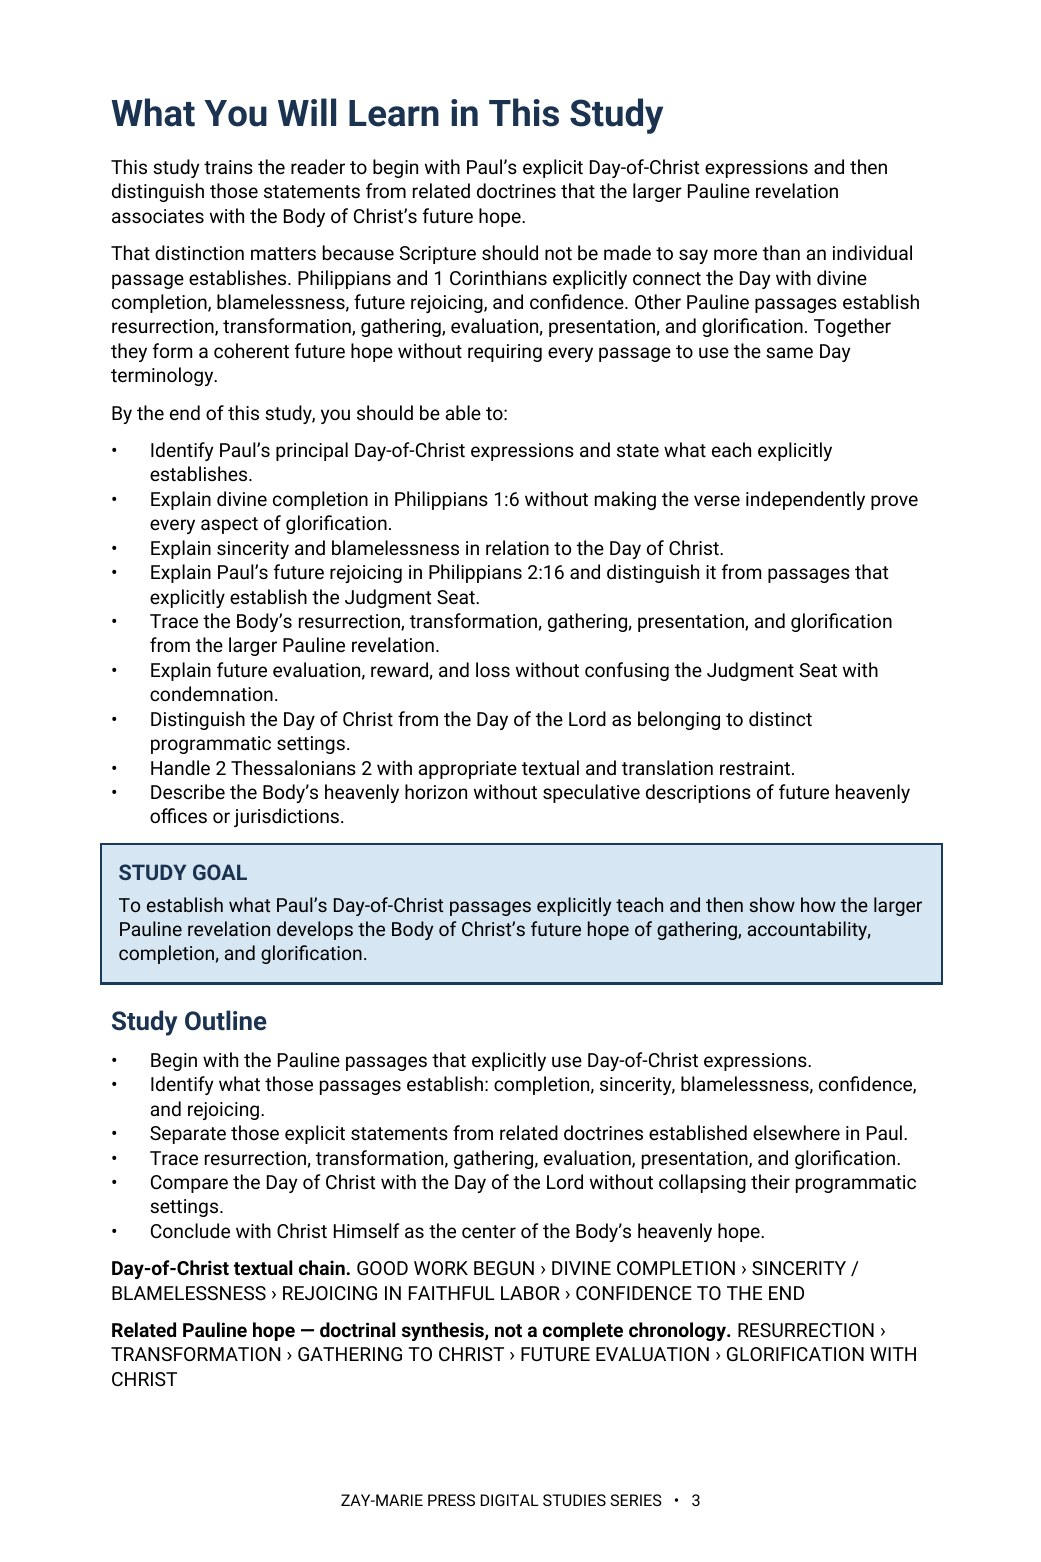
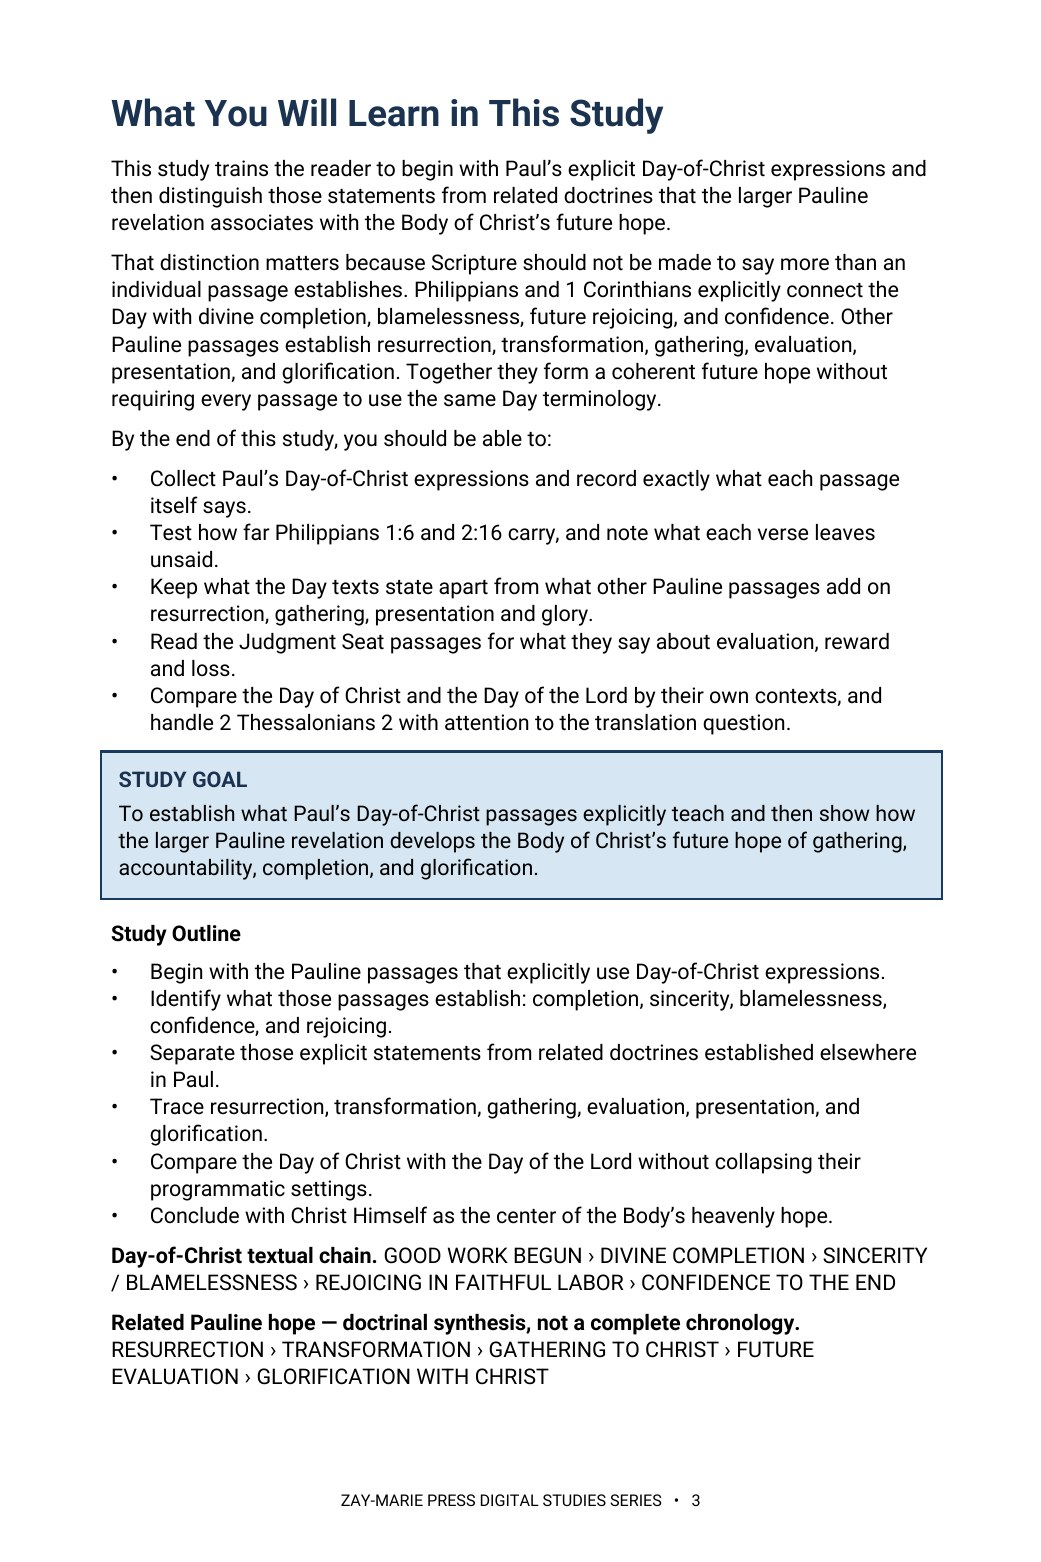
Study 8: rebuild at 15 pages with v1.51 imprint, process-bullet What You Will Learn, numbered Teaching Outline
Claude-Session: https://claude.ai/code/session_01HC7bs9KYP2scp4hCL6DkTp

Changed region(s): [[0.0922, 0.0922, 0.9222, 0.8912]]

diff --git a/study-08-the-day-of-christ.html b/study-08-the-day-of-christ.html
@@ -15,8 +15,8 @@
 <section class="detail-section cream"><div class="wrap"><div class="eyebrow">KEY SCRIPTURES</div><h2>Examine the Passages for Yourself</h2><div class="scripture-grid"><div class="scripture-card"><h3>Philippians 1:6</h3><p>Assures that the good work God began will be completed in the Day of Jesus Christ.</p></div><div class="scripture-card"><h3>Philippians 1:10</h3><p>Connects sincerity and blamelessness with the Day of Christ.</p></div><div class="scripture-card"><h3>Philippians 2:16</h3><p>Places faithful labor and rejoicing in the light of the Day of Christ.</p></div><div class="scripture-card"><h3>1 Corinthians 1:8</h3><p>Speaks of confirmation unto the end in the Day of our Lord Jesus Christ.</p></div><div class="scripture-card"><h3>1 Thessalonians 4:13–18</h3><p>Establishes the Body’s gathering to Christ and its abiding relationship with Him.</p></div><div class="scripture-card"><h3>1 Corinthians 15:51–52</h3><p>Declares the resurrection and transformation of the Body.</p></div><div class="scripture-card"><h3>2 Corinthians 5:10</h3><p>Sets the Judgment Seat before believers as an evaluation of what has been done.</p></div><div class="scripture-card"><h3>Colossians 3:4; Ephesians 5:27</h3><p>Looks ahead to the Body’s appearance with Christ in glory and presentation to Him.</p></div></div></div></section>
 <section class="detail-section"><div class="wrap"><div class="eyebrow">FROM THE STUDY</div><h2>The Body’s Heavenly Hope in Christ</h2><div class="excerpt"><blockquote>“The Day of Christ belongs to the Body’s heavenly hope: completion, gathering, accountability, reward, and glorification in Christ.”</blockquote><p>The Day of Christ is defined by Paul’s language and future-facing promises for the Body. It is therefore not interchangeable with Israel’s prophetic Day of the Lord, even where related passages must be handled with care.</p></div></div></section>
 <section class="detail-section soft"><div class="wrap"><div class="eyebrow">A LOOK INSIDE</div><h2>Preview the Study Before You Purchase</h2><p class="preview-instruction">Click any page to enlarge it for reading.</p><div class="preview-grid"><div class="preview-card"><a class="preview-image-link" data-preview-lightbox href="assets/study-08-page-2.jpg"><img src="assets/study-08-page-2.jpg" alt="Study 8 interior preview — page 2, table of contents"/></a><div class="page-no">Page 2</div><h3>Table of Contents</h3><p>See the full structure of the study, from the introduction through the final synthesis.</p></div><div class="preview-card"><a class="preview-image-link" data-preview-lightbox href="assets/study-08-page-3.jpg"><img src="assets/study-08-page-3.jpg" alt="Study 8 interior preview — page 3, what you will learn"/></a><div class="page-no">Page 3</div><h3>What You Will Learn</h3><p>See the study’s goals for reading Paul’s Day-of-Christ passages and the outline that carries the study forward.</p></div><div class="preview-card"><a class="preview-image-link" data-preview-lightbox href="assets/study-08-page-5.jpg"><img src="assets/study-08-page-5.jpg" alt="Study 8 interior preview — page 5, divine completion and sincerity"/></a><div class="page-no">Page 5</div><h3>Completion and Sincerity</h3><p>Read what Philippians 1:6 and 1:10 explicitly establish before any related doctrine is added.</p></div></div></div></section>
-<section class="detail-section"><div class="wrap"><div class="eyebrow">WHAT’S INCLUDED</div><h2>A Focused Study Built for<br/>Understanding and Teaching</h2><div class="includes-grid"><div class="include-item"><h3>13-Page In-Depth Biblical Study</h3><p>A careful study of the Body’s future hope in the Day of Christ.</p></div><div class="include-item"><h3>15 Core Teaching Sections</h3><p>Progress through the Day texts, gathering, transformation, evaluation, and glorification.</p></div><div class="include-item"><h3>Day-of-Christ Passage Study</h3><p>Examine Paul’s own expressions before bringing related passages alongside them.</p></div><div class="include-item"><h3>Gathering and Transformation Trace</h3><p>Work through the passages that establish the Body’s gathering and future change.</p></div><div class="include-item"><h3>20 Review Questions</h3><p>Test the study’s distinctions concerning the Day, judgment, reward, and hope.</p></div><div class="include-item"><h3>Teaching Outline</h3><p>A ready outline for teaching the Body’s heavenly hope with precision.</p></div><div class="include-item"><h3>Guided Further Study</h3><p>Return directly to the passages on completion, gathering, evaluation, and glory.</p></div><div class="include-item"><h3>Final Synthesis Exercise</h3><p>Bring the Day-of-Christ evidence together in a concise, Scripture-based explanation.</p></div></div></div></section>
-<section class="detail-section cream"><div class="wrap"><div class="final-buy"><div><div class="eyebrow">STUDY 8 · DIGITAL STUDY</div><h2>The Day of Christ</h2><p>13-page digital PDF · For personal use</p></div><div class="final-offer"><div class="detail-price">$5.99</div><span class="detail-button pending" aria-disabled="true">Get the Study</span></div></div><a class="back-link" href="digital-studies.html">← Back to All Digital Studies</a></div></section><section class="study-method-course-bridge"><div class="wrap"><div class="study-method-course-panel"><div><div class="eyebrow">BUILD THE INTERPRETIVE METHOD</div><h2>Want More Than a Focused Study?</h2><p>Digital Studies examine particular biblical subjects and difficult passages. The 40-lesson Biblical Hermeneutics course teaches a complete, repeatable method for establishing meaning in context, determining proper assignment, and making responsible application.</p></div><a class="btn btn-primary" href="biblical-hermeneutics-course.html">BIBLICAL HERMENEUTICS COURSE</a></div></div></section></main>
+<section class="detail-section"><div class="wrap"><div class="eyebrow">WHAT’S INCLUDED</div><h2>A Focused Study Built for<br/>Understanding and Teaching</h2><div class="includes-grid"><div class="include-item"><h3>14-Page In-Depth Biblical Study</h3><p>A careful study of the Body’s future hope in the Day of Christ.</p></div><div class="include-item"><h3>15 Core Teaching Sections</h3><p>Progress through the Day texts, gathering, transformation, evaluation, and glorification.</p></div><div class="include-item"><h3>Day-of-Christ Passage Study</h3><p>Examine Paul’s own expressions before bringing related passages alongside them.</p></div><div class="include-item"><h3>Gathering and Transformation Trace</h3><p>Work through the passages that establish the Body’s gathering and future change.</p></div><div class="include-item"><h3>20 Review Questions</h3><p>Test the study’s distinctions concerning the Day, judgment, reward, and hope.</p></div><div class="include-item"><h3>Teaching Outline</h3><p>A ready outline for teaching the Body’s heavenly hope with precision.</p></div><div class="include-item"><h3>Guided Further Study</h3><p>Return directly to the passages on completion, gathering, evaluation, and glory.</p></div><div class="include-item"><h3>Final Synthesis Exercise</h3><p>Bring the Day-of-Christ evidence together in a concise, Scripture-based explanation.</p></div></div></div></section>
+<section class="detail-section cream"><div class="wrap"><div class="final-buy"><div><div class="eyebrow">STUDY 8 · DIGITAL STUDY</div><h2>The Day of Christ</h2><p>14-page digital PDF · For personal use</p></div><div class="final-offer"><div class="detail-price">$5.99</div><span class="detail-button pending" aria-disabled="true">Get the Study</span></div></div><a class="back-link" href="digital-studies.html">← Back to All Digital Studies</a></div></section><section class="study-method-course-bridge"><div class="wrap"><div class="study-method-course-panel"><div><div class="eyebrow">BUILD THE INTERPRETIVE METHOD</div><h2>Want More Than a Focused Study?</h2><p>Digital Studies examine particular biblical subjects and difficult passages. The 40-lesson Biblical Hermeneutics course teaches a complete, repeatable method for establishing meaning in context, determining proper assignment, and making responsible application.</p></div><a class="btn btn-primary" href="biblical-hermeneutics-course.html">BIBLICAL HERMENEUTICS COURSE</a></div></div></section></main>
 <div class="preview-lightbox" id="preview-lightbox" role="dialog" aria-modal="true" aria-label="Enlarged study page preview"><button class="preview-lightbox-close" type="button" aria-label="Close enlarged preview">×</button><img src="" alt=""/><div class="preview-lightbox-hint">Scroll to read the full page · Press Esc or click outside the page to close</div></div>
 <footer class="site-footer"><div class="wrap footer-grid"><div class="footer-about"><h3>Zay-Marie Press</h3><p class="footer-tagline"><em>Where the Bible Means What It Says.</em></p><p>Zay-Marie Press is a Christian theological publisher dedicated to producing doctrinally precise, carefully structured biblical resources that equip pastors, teachers, and serious students with clarity, depth, and Scripture-anchored truth.</p><p><a href="https://zaymariepress.com">zaymariepress.com</a><br/><a href="mailto:info@zaymariepress.com">info@zaymariepress.com</a></p></div><div class="footer-column"><h3>Explore</h3><div class="footer-links-stacked"><a href="books.html">Books</a><br/><a href="series.html">Series</a><br/><a href="biblical-hermeneutics-course.html">Course</a><br/><a href="digital-studies.html">Digital Studies</a><br/><a href="resources.html">Resources</a><br/><a href="bible-book-summaries.html">Bible Book Summaries</a><br/><a href="doctrinal-packets.html">Doctrinal Packets</a><br/><a href="historical-drift.html">Historical Drift</a><br/><a href="about.html">About</a><br/><a href="contact.html">Contact</a></div></div><div class="footer-column"><h3>Reader Support</h3><div class="footer-links-stacked"><a href="reader-support.html#faq">FAQ</a><br/><a href="reader-support.html#shipping-returns">Shipping &amp; Returns</a><br/><a href="reader-support.html#digital-downloads">Digital Downloads</a><br/><a href="reader-support.html#contact-support">Contact Support</a></div></div><div class="footer-column"><h3>Acts Overlap</h3><p><strong>Acts Overlap Theology Series</strong></p><p><em>Two Distinct Streams. One Overlap.</em></p><p><a href="series.html">Series Overview</a></p></div></div><div class="wrap footer-bottom">© 2026 Zay-Marie Press. All rights reserved.</div></footer>
 <script src="site.js"></script><script>(function(){var box=document.getElementById("preview-lightbox"),img=box.querySelector("img"),close=box.querySelector(".preview-lightbox-close"),hint=box.querySelector(".preview-lightbox-hint"),hintTimer;function shut(){clearTimeout(hintTimer);box.classList.remove("open");hint.classList.remove("fade");document.body.style.overflow="";img.src=""}document.querySelectorAll("[data-preview-lightbox]").forEach(function(a){a.addEventListener("click",function(e){e.preventDefault();clearTimeout(hintTimer);img.src=a.getAttribute("href");img.alt=a.querySelector("img").alt;hint.classList.remove("fade");box.classList.add("open");document.body.style.overflow="hidden";box.scrollTop=0;hintTimer=setTimeout(function(){hint.classList.add("fade")},3000)})});close.addEventListener("click",shut);box.addEventListener("click",function(e){if(e.target===box)shut()});document.addEventListener("keydown",function(e){if(e.key==="Escape"&&box.classList.contains("open"))shut()})})();</script></body></html>

diff --git a/site.js b/site.js
@@ -62,7 +62,7 @@ const resourceModal=document.querySelector('#resource-modal'), resourceModalTitl
 if(resourceModal&&resourceModalTriggers.length){const closeResourceModal=()=>{resourceModal.hidden=true;document.body.classList.remove('resource-modal-open');lastResourceTrigger?.focus();};resourceModalTriggers.forEach(trigger=>trigger.addEventListener('click',()=>{lastResourceTrigger=trigger;if(resourceModalTitle)resourceModalTitle.textContent=trigger.dataset.title||'Resource';if(resourceModalDescription)resourceModalDescription.textContent=trigger.dataset.description||'';if(resourceModalLink){resourceModalLink.href=trigger.dataset.href||'#';resourceModalLink.textContent=trigger.dataset.linkText||'OPEN RESOURCE';}resourceModal.hidden=false;document.body.classList.add('resource-modal-open');resourceModalClose?.focus();}));resourceModalClose?.addEventListener('click',closeResourceModal);resourceModal.addEventListener('click',e=>{if(e.target===resourceModal)closeResourceModal();});document.addEventListener('keydown',e=>{if(e.key==='Escape'&&!resourceModal.hidden)closeResourceModal();});}
 
 /* Display the verified final-PDF page count at the primary purchase decision point. */
-const digitalStudyPageCounts={1:20,2:19,3:18,4:17,5:15,6:15,7:15,8:13,9:15,10:20,11:15,12:15,13:18,14:15,15:15,16:16,17:17,18:18,19:18,20:18,21:16,22:15,23:14,24:16,25:17,26:16,27:16,28:17,29:19,30:18,31:19,32:19,33:18,34:20,35:22,36:20,37:21,38:22,39:22,40:23,41:21,42:17,43:16,44:19,45:19,46:20,47:20,48:20,49:20,50:20,51:20,52:19,53:19,54:17,55:20,56:20,57:20,58:19,59:20,60:15,61:14,62:18,63:17,64:17,65:16,66:16,67:17,68:16,69:17,70:17,71:16};
+const digitalStudyPageCounts={1:20,2:19,3:18,4:17,5:15,6:15,7:15,8:15,9:15,10:20,11:15,12:15,13:18,14:15,15:15,16:16,17:17,18:18,19:18,20:18,21:16,22:15,23:14,24:16,25:17,26:16,27:16,28:17,29:19,30:18,31:19,32:19,33:18,34:20,35:22,36:20,37:21,38:22,39:22,40:23,41:21,42:17,43:16,44:19,45:19,46:20,47:20,48:20,49:20,50:20,51:20,52:19,53:19,54:17,55:20,56:20,57:20,58:19,59:20,60:15,61:14,62:18,63:17,64:17,65:16,66:16,67:17,68:16,69:17,70:17,71:16};
 const digitalStudyMatch=window.location.pathname.match(/\/study-(\d+)-/i);
 const digitalStudyFormat=document.querySelector('.detail-hero .detail-format');
 if(digitalStudyMatch&&digitalStudyFormat){const studyNumber=Number(digitalStudyMatch[1]),pageCount=digitalStudyPageCounts[studyNumber];if(pageCount)digitalStudyFormat.textContent=`Digital PDF · ${pageCount} Pages`;}

diff --git a/build-tools/studies/b08/ed08r.py b/build-tools/studies/b08/ed08r.py
@@ -1,0 +1,18 @@
+from edcommon import *
+def apply(els):
+    idx=[i for i in range(0,14) if els[i]['type']=='para' and els[i]['kind']=='bul']
+    assert len(idx)==9 and idx==list(range(idx[0],idx[0]+9)) and els[idx[-1]+1]['kind']=='ctitle'
+    new=['Collect Paul’s Day-of-Christ expressions and record exactly what each passage itself says.',
+    'Test how far Philippians 1:6 and 2:16 carry, and note what each verse leaves unsaid.',
+    'Keep what the Day texts state apart from what other Pauline passages add on resurrection, gathering, presentation and glory.',
+    'Read the Judgment Seat passages for what they say about evaluation, reward and loss.',
+    'Compare the Day of Christ and the Day of the Lord by their own contexts, and handle 2 Thessalonians 2 with attention to the translation question.']
+    els[idx[0]:idx[-1]+1]=[mk('bul',[[t,False,False]]) for t in new]
+    n=0
+    for e in els:
+        if P(e) and 'Study #8' in T(e):
+            for s in e['segs']:
+                if 'Study #8' in s[0]: s[0]=s[0].replace('Study #8','this study'); n+=1
+    assert n==1
+    number_outline(els)
+    return els

diff --git a/CLAUDE.md b/CLAUDE.md
@@ -26,7 +26,7 @@ These are kept in the repo at `controlling-documents/` and are the current versi
 - **`build-tools/`** — the study rebuild toolkit (scripts, per-study edit files, README), committed 2026-10-04 at the publisher's approval so the retrofit method and every per-study wording edit survive a session reset. Working tools only; the site does not use them. Not a rule.
 **`controlling-documents/Digital_Studies_Relationship_Map_v1.39.md`** — records each study's distinct subject, its related studies, the eight priced six-study collections, the Paul's Missionary Journeys cross-reference map, and the five primary catalog categories (currently version 1.39, covers Studies 1–71; update it as new studies publish, bump the version number, rename the file to match, and log the change in its own version-history table — mirroring the Master Standard's `_vX.Y` filename convention). Check a proposed topic against it before recommending or writing a new study. (2026-09-28: the file was missing from this repo despite this note referencing it; replaced from the publisher's copy and bumped v1.15→v1.25 in the same pass. If this note ever again points to a version not present under `controlling-documents/`, ask the publisher for a copy rather than proceeding without the check.)
 - **`controlling-documents/Digital_Studies_Category_Standard_v1.1.md`** — FINAL and binding (publisher, 2026-10-01): the rules for the five primary catalog categories (Foundations, Israel & Prophecy, Body of Christ, Passages, Doctrinal Themes), the ordered decision procedure for new studies, the precedents, all 71 fixed assignments, and the cover-label form for each category. Read it before placing any card or cover label. Do not ask the publisher where a study belongs; apply the procedure and state the result. Only the publisher changes a ruling; then bump this Standard's version and filename, re-letter the cover, and update the Relationship Map.
-- **`controlling-documents/Doctrinal_Upgrade_Retrofit_Plan_v1.137.md`** — working tracker for retrofitting Studies 1–59 to the 2026-10-02 doctrinal upgrade (Framework/PAM v1.1, Master Standard v1.40, Rules 7–17): withdrawn-wording search keys, impact tiers, waves and the per-study method. Read it before continuing the retrofit in any session; update status, bump the version and rename the file as work proceeds.
+- **`controlling-documents/Doctrinal_Upgrade_Retrofit_Plan_v1.138.md`** — working tracker for retrofitting Studies 1–59 to the 2026-10-02 doctrinal upgrade (Framework/PAM v1.1, Master Standard v1.40, Rules 7–17): withdrawn-wording search keys, impact tiers, waves and the per-study method. Read it before continuing the retrofit in any session; update status, bump the version and rename the file as work proceeds.
 - **`controlling-documents/Doctrinal_Packet_Standard_v0.3.md`** — Doctrinal Packet Standard (DRAFT; §7 approved). Governs the separate Doctrinal Packets product strand (5-page interpretive PDFs per Bible book — a print-friendly cover as page 1 plus 4 content pages, $2.99, KJV, pilot: Genesis, live at `packet-genesis.html`, hub `doctrinal-packets.html`; site pages say "5 Pages", cover styles live in `packets.css`, Old Testament blue and New Testament soft pale green, hub listed in Bible order). **Preview rule (publisher directive, 2026-09-29, packets only):** previews show about one page's worth in two cropped views (top of page 1 through the anchor texts; the chart section) — never the exegesis, architecture, Mystery contrast, logic chain, outline, or closing. Master Standard §16/§17 still govern Digital Studies. Bump the version and rename the file as the Standard is finalized.
 - **`controlling-documents/Preview_Page_Spoiler_Retrofit_Audit_v1.4.md`** — working tracker for the Studies 1–60 preview-page conclusion-spoiler retrofit (see the section below). Read it before continuing that audit in any session; update its status fields and changelog, bump the version, and rename the file to match as the audit proceeds — same `_vX.Y` convention as the other controlling documents. As of v1.1, the website-side half was DONE: all 60 studies' "What You'll Study" text was judged against the rule (methodology documented in the file) and 22 points across 11 studies were rewritten and pushed; an unrelated Study 22 content bug (Study 21's content had leaked into it) was also found and fixed. As of v1.2, the publisher supplied Studies 1–60's interior production PDFs and the interior-PDF half was also surveyed (read-only): 10 studies (37, 41, 45, 47, 48, 49, 51, 52, 53, 54) were found to have at least one interior "What You Will Learn" violation, 50 studies were confirmed compliant, and the orphaned `assets/study-45-sanctification-under-grace.docx` (removed from the repo per the publisher in v1.0) was confirmed word-for-word identical to Study 45's actual production interior PDF content. As of v1.3, the publisher supplied editable DOCX sources for all 10 violating studies; all 15 violating points were rewritten and approved, delivered as corrected final PDFs, and — along the way — a second defect was found and fixed (Studies 47 and 48's source DOCX still had an unintegrated cover placeholder despite both being long-published live with real covers; fixed by inserting the existing approved cover art). The website's "What You Will Learn" preview image (`study-NN-page-3.jpg`) was regenerated from the corrected content for all 10 studies and pushed to `main` (commit `cea1859`), verified against a fresh clone. **The website side of this audit is now fully compliant for all 60 studies.** Outstanding: the publisher's purchasable interior PDF files themselves have corrected versions delivered, but distribution to existing purchasers was decided by the publisher on 2026-09-29: silent swap of the files behind the existing downloads, no reissue notice (recorded in the v1.4 changelog entry; the product files are not in this repo).
 

diff --git a/controlling-documents/Doctrinal_Upgrade_Retrofit_Plan_v1.138.md b/controlling-documents/Doctrinal_Upgrade_Retrofit_Plan_v1.138.md
@@ -232,3 +232,5 @@ Working tracker for correcting published studies to the Framework/PAM v1.1, Mast
 - v1.136 (2026-10-04): Imprint scan, Study 3 rebuilt at 18 pages (was 16): v1.51 imprint, nine Acts 28 conformings with the Study 3 sequence sentence (1 Thess 4–5, 2 Thess 2), R17 inserted, bulleted What You Will Learn, two-level outlines. Website: site.js 3:18, include/buy text 17-page, comparison-table preview moved page 10 to 11 (asset renamed), previews 2, 3, 11. Studies 7, 8, 10, 2 remain on the imprint list. Publisher-approved 2026-10-04.
 
 - v1.137 (2026-10-04): Imprint scan, Study 7 rebuilt at 15 pages (was 14): v1.51 imprint, What You Will Learn cut from 12 conclusion-stating bullets to 5 process bullets, Teaching Outline numbered 1–11, 'Study #7' replaced by 'this study' (2 places). No doctrine changes needed. Website: site.js 7:15; previews 2, 3, 5 (page 5 now the Day-as-period page, relabelled). Studies 8, 10, 2 remain. Publisher-approved 2026-10-04.
+
+- v1.138 (2026-10-04): Imprint scan, Study 8 rebuilt at 15 pages (was 13): v1.51 imprint, What You Will Learn cut from 9 to 5 process bullets, Teaching Outline numbered 1–11, 'Study #8' replaced by 'this study' (Study #7 neighbour pointer kept). No doctrine changes needed. Website: site.js 8:15, page text 14-page (interior; was 13 stale), previews 2, 3, 5. Studies 10 and 2 remain. Publisher-approved 2026-10-04.

diff --git a/controlling-documents/Digital_Studies_PAM_Audit_v1.232.md b/controlling-documents/Digital_Studies_PAM_Audit_v1.232.md
@@ -461,3 +461,4 @@ Study 15 PDF not yet supplied. Typography: none of Studies 2, 3, 6, 8 is in EB G
 - v1.229 (2026-10-04): Study 61 rebuilt at 14 pages with KJV tables (see Retrofit Plan v1.135); Wave 5 open list closed.
 - v1.230 (2026-10-04): Study 3 rebuilt at 18 pages with v1.51 imprint, Acts 28 sequence sentence ruling, bulleted What You Will Learn (see Retrofit Plan v1.136).
 - v1.231 (2026-10-04): Study 7 rebuilt at 15 pages with v1.51 imprint, five process-bullet What You Will Learn, numbered Teaching Outline, 'Study #7' removed (see Retrofit Plan v1.137).
+- v1.232 (2026-10-04): Study 8 rebuilt at 15 pages with v1.51 imprint, five process-bullet What You Will Learn, numbered Teaching Outline, 'Study #8' removed (see Retrofit Plan v1.138).
